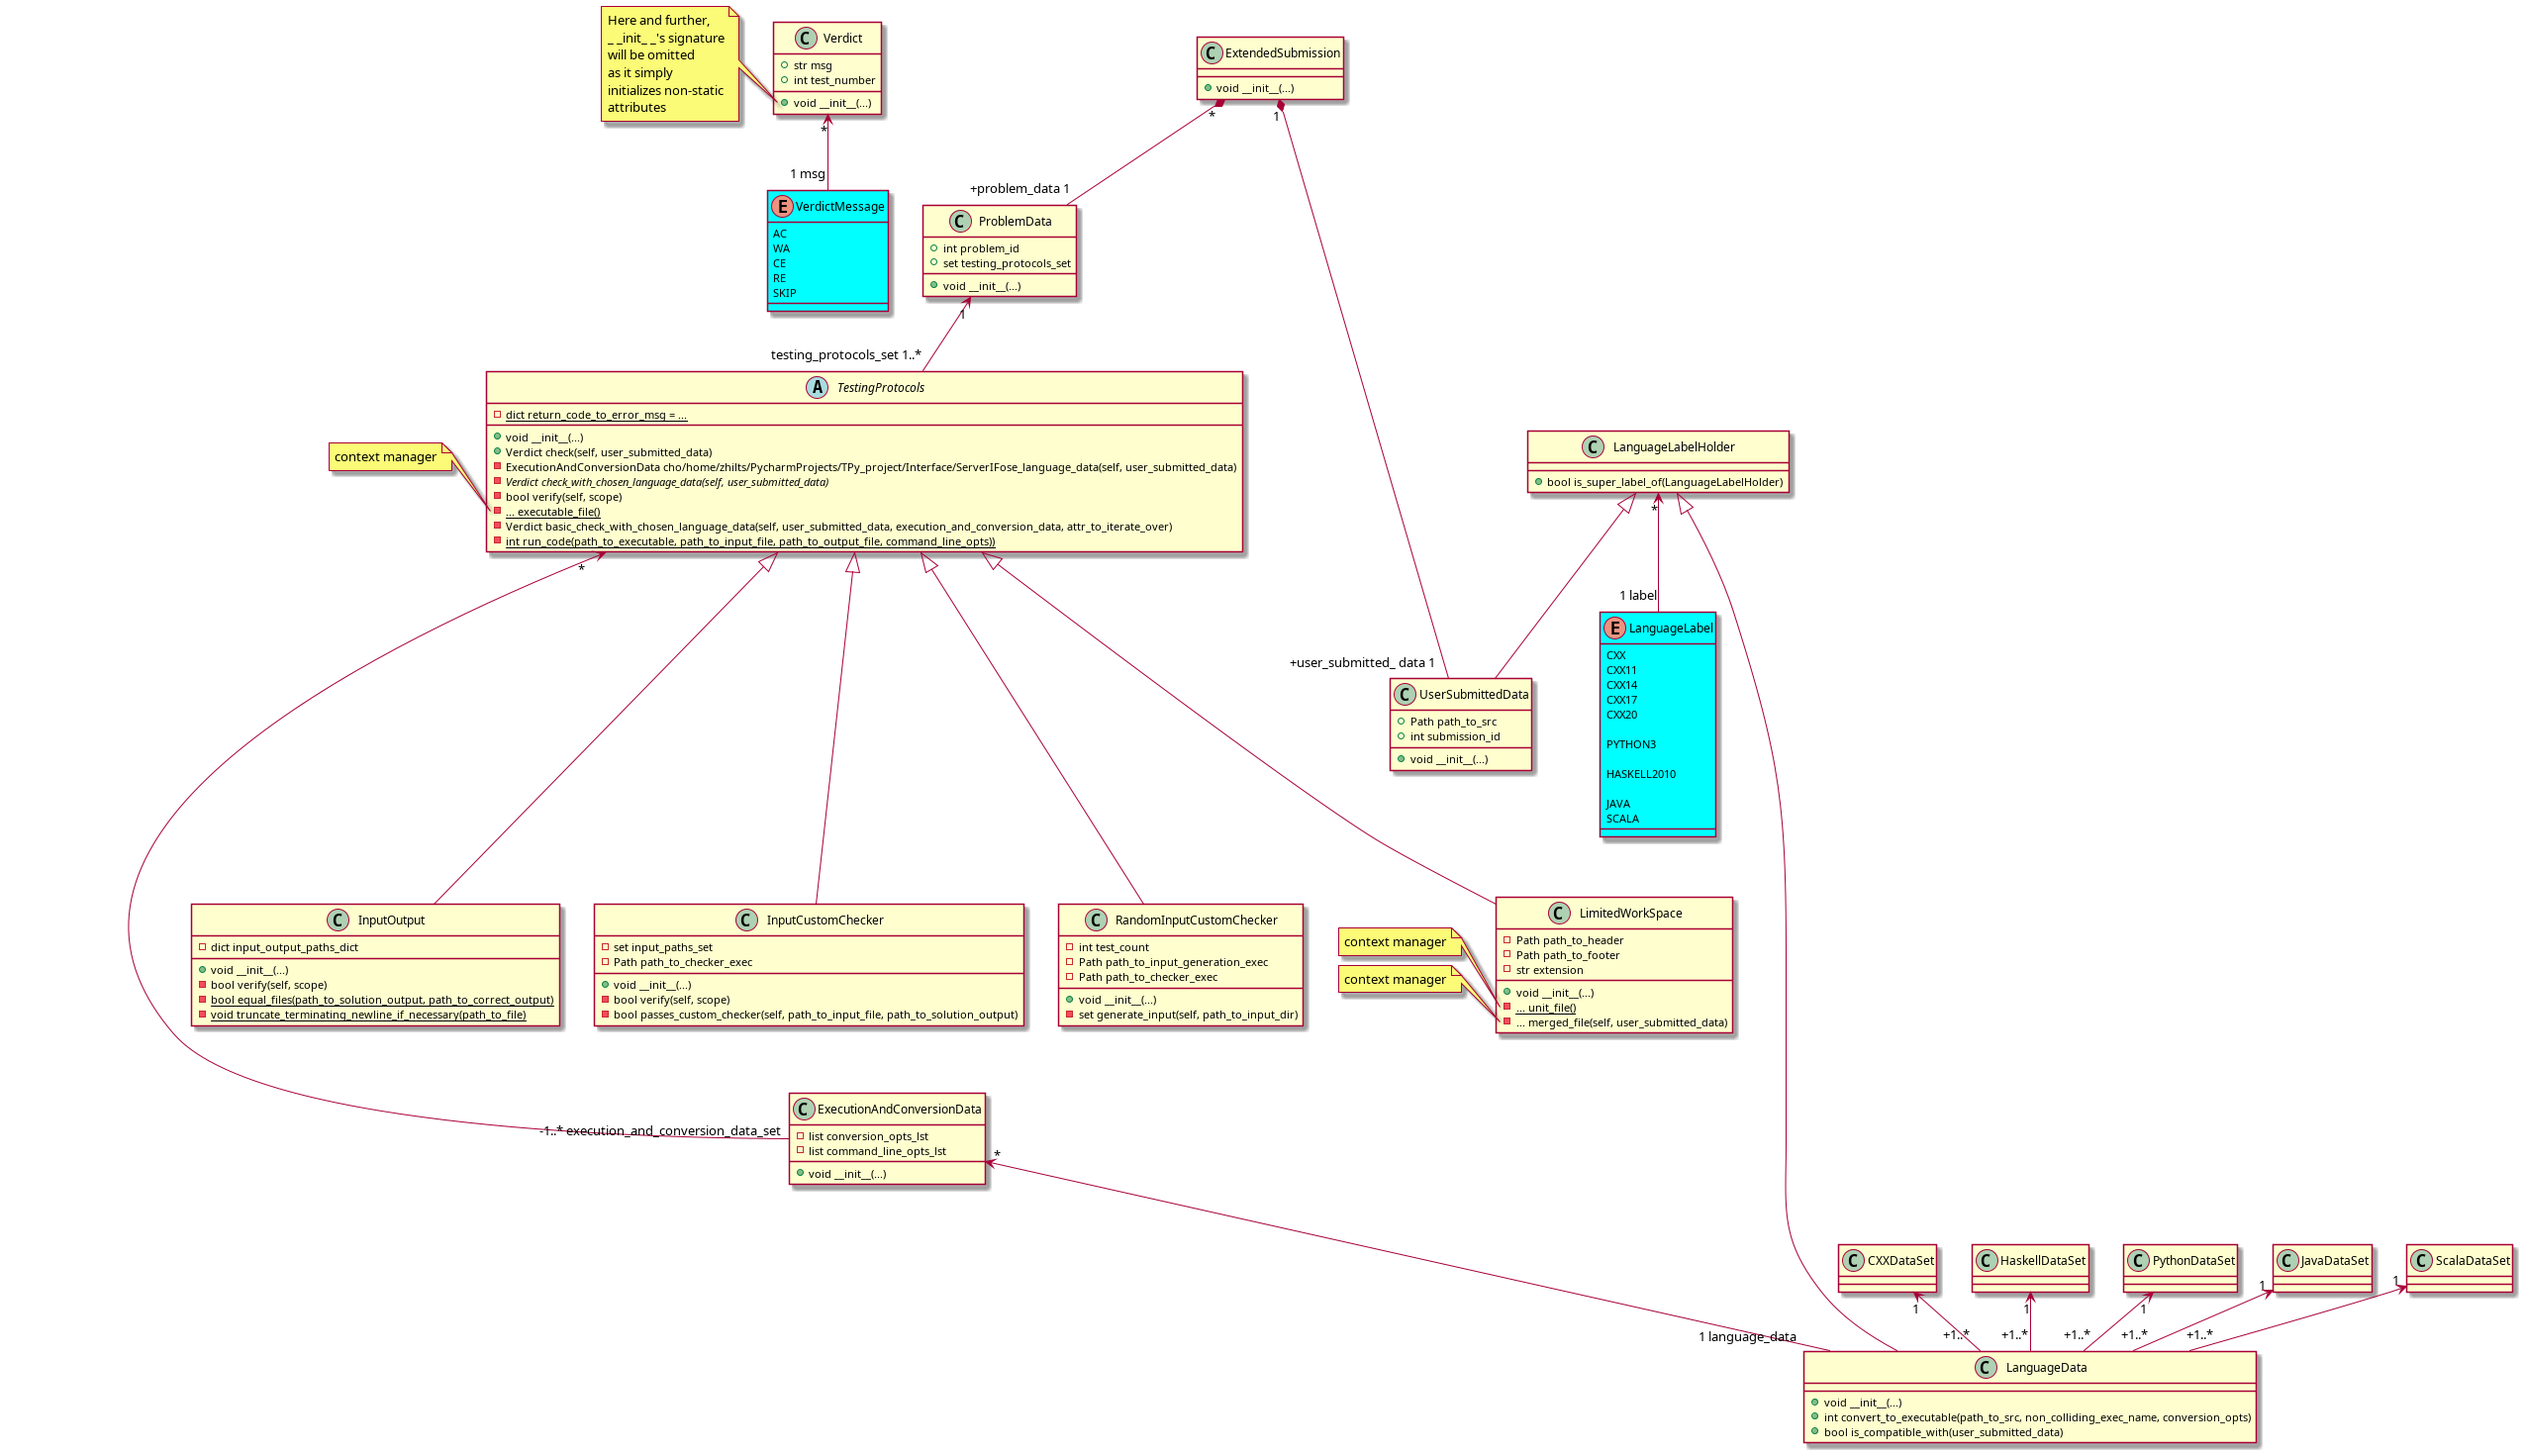
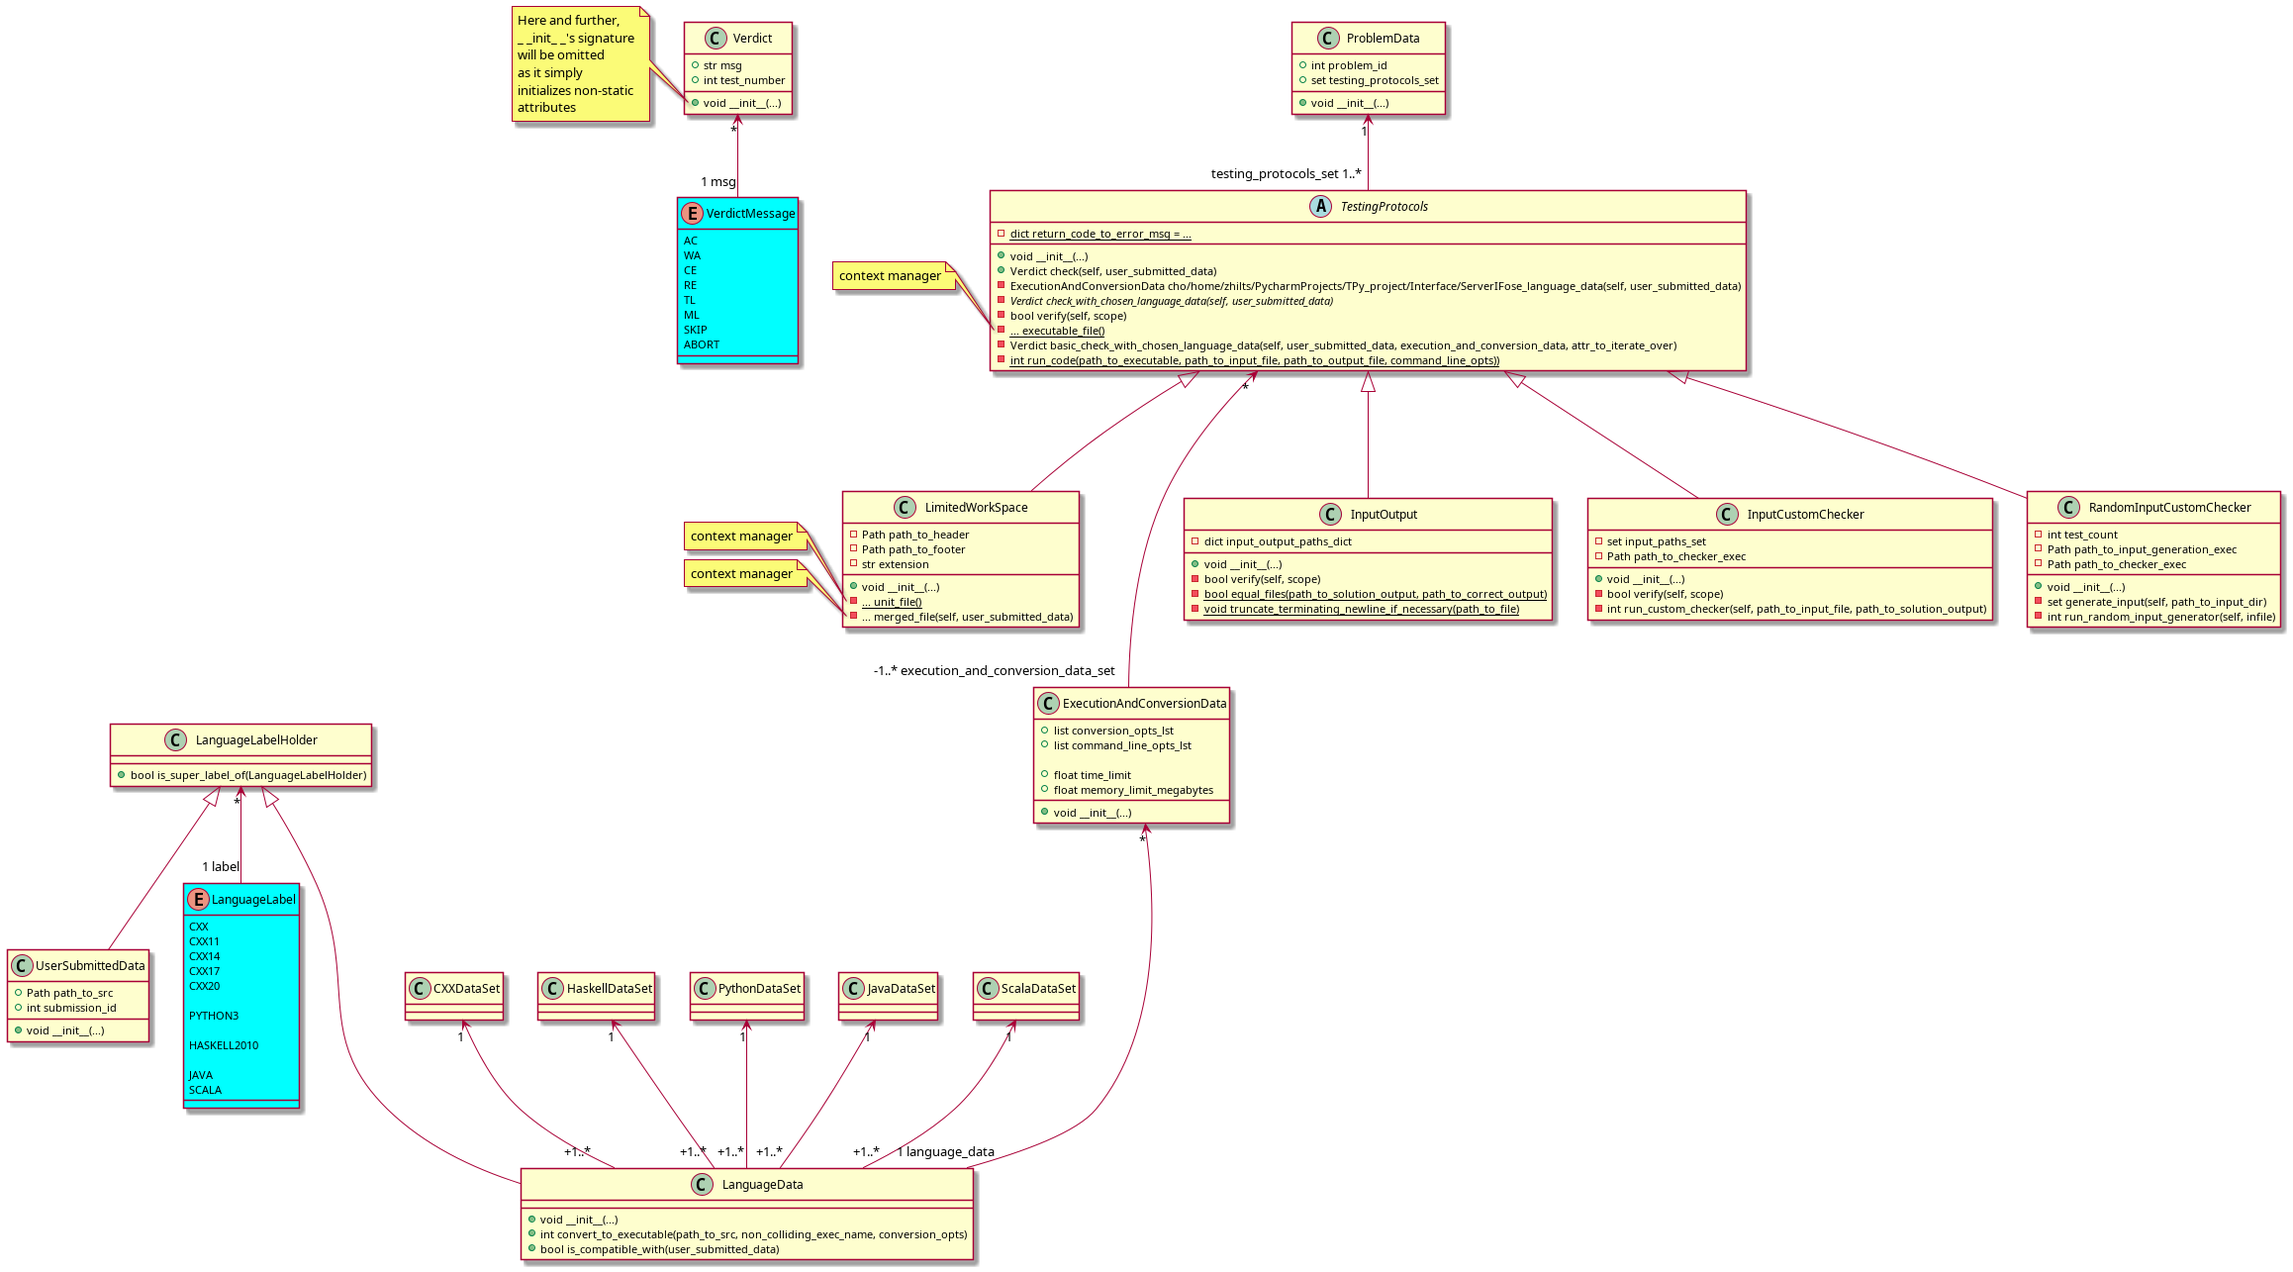
Enforced execution as nobody in other parts of code

diff --git a/TestingSystem/TestingProtocols/testing_protocols/__init__.py b/TestingSystem/TestingProtocols/testing_protocols/__init__.py
@@ -23,7 +23,10 @@ class VerdictMessage(Enum):
     WA = auto()
     CE = auto()
     RE = auto()
+    TL = auto()
+    ML = auto()
     SKIP = auto()
+    ABORT = auto()
 
 
 class Verdict:
@@ -181,15 +184,31 @@ class InputCustomChecker(TestingProtocol):  # todo: checker safety
         self.input_paths_set = input_paths_set
         self.path_to_checker_exec = path_to_checker_exec
 
-    def passes_custom_checker(self, path_to_input_file, path_to_solution_output):
-        return int(subprocess.run([self.path_to_checker_exec, path_to_input_file, path_to_solution_output],
-                                  stdout=subprocess.PIPE).stdout.decode('utf-8')) == 1
+    def run_custom_checker(self, path_to_input_file, path_to_solution_output):
+        subprocess.run(['sudo', 'chmod', 'o+rwx', os.path.dirname(path_to_input_file)])
+        subprocess.run(['sudo', 'chown', 'nobody', path_to_solution_output])
+        subprocess.run(['sudo', 'chmod', 'o+rw', path_to_solution_output])
+        subprocess.run(['sudo', 'chown', 'nobody', path_to_input_file])
+        subprocess.run(['sudo', 'chmod', 'o+rw', path_to_input_file])
+        p = subprocess.run(['sudo', '-u', 'nobody',
+                                  self.path_to_checker_exec, path_to_input_file, path_to_solution_output],
+                                  stdout=subprocess.PIPE, stderr=subprocess.PIPE)
+
+        subprocess.run(['sudo', 'chown', 'root', path_to_solution_output])
+        subprocess.run(['sudo', 'chown', 'root', path_to_input_file])
+
+
+
+        o = p.stdout.decode()
+        e = p.stderr.decode()
+        r = p.returncode
+        return int(o) == 1
 
     def verify(self, scope):
         path_to_input_file = scope['path_to_input_file']
         path_to_solution_output = scope['path_to_solution_output']
 
-        return self.passes_custom_checker(path_to_input_file, path_to_solution_output)
+        return self.run_custom_checker(path_to_input_file, path_to_solution_output)
 
     def check_with_chosen_language_data(self, user_submitted_data, execution_and_conversion_data):
         return self.basic_check_with_chosen_language_data(
@@ -213,18 +232,27 @@ class RandomInputCustomChecker(TestingProtocol):
     def generate_input(self, path_to_input_dir):  # todo: timeout
         input_paths_set = set()
         for test in range(self.test_count):
-            infile_path = path_to_input_dir / f'{test}.in'  # no need to check collision as placed in fresh dir
-            infile_path.touch()
-            with open(infile_path, 'w') as infile:
+            path_to_storage = path_to_input_dir / f'{test}.in'  # no need to check collision as placed in fresh dir
+            path_to_storage.touch()
+            with open(path_to_storage, 'w') as storage:
                 return_code = -1
-                while return_code != 0:
-                    return_code = subprocess.run(self.path_to_input_generation_exec, stdout=infile).returncode
-            input_paths_set.add(infile_path)
+                tries_left = 20
+                while return_code != 0 and tries_left > 0:
+                    return_code = self.run_random_input_generator(storage=storage)
+                    tries_left -= 1
+                if tries_left == 0:
+                    return None
+            input_paths_set.add(path_to_storage)
         return input_paths_set
 
     def check_with_chosen_language_data(self, user_submitted_data, execution_and_conversion_data):
         with tempfile.TemporaryDirectory() as path_to_input_dir:
             random_input_paths_set = self.generate_input(Path(path_to_input_dir))
+            if not random_input_paths_set:
+                return Verdict(
+                    msg=VerdictMessage.ABORT,
+                    test_number=-1
+                )
 
             deterministic_protocol = InputCustomChecker(
                 input_paths_set=random_input_paths_set,
@@ -233,6 +261,11 @@ class RandomInputCustomChecker(TestingProtocol):
             )
 
             return deterministic_protocol.check(user_submitted_data=user_submitted_data)
+
+    def run_random_input_generator(self, storage):
+        # nobody should be able to write in a file from /tmp
+        return subprocess.run(['sudo', '-u', 'nobody',
+                               self.path_to_input_generation_exec], stdout=storage).returncode
 
 
 class LimitedWorkSpace(TestingProtocol):
@@ -299,10 +332,3 @@ class ProblemData:
             if verdict.msg != VerdictMessage.AC:
                 return f'{verdict.msg}{protocol_number}.{verdict.test_number}'
         return VerdictMessage.AC
-
-
-class ExtendedSubmission:
-    """Full submission data: composed of UserSubmittedData and ProblemData"""
-    def __init__(self, user_submitted_data, problem_data):
-        self.user_submitted_data = user_submitted_data
-        self.problem_data = problem_data
